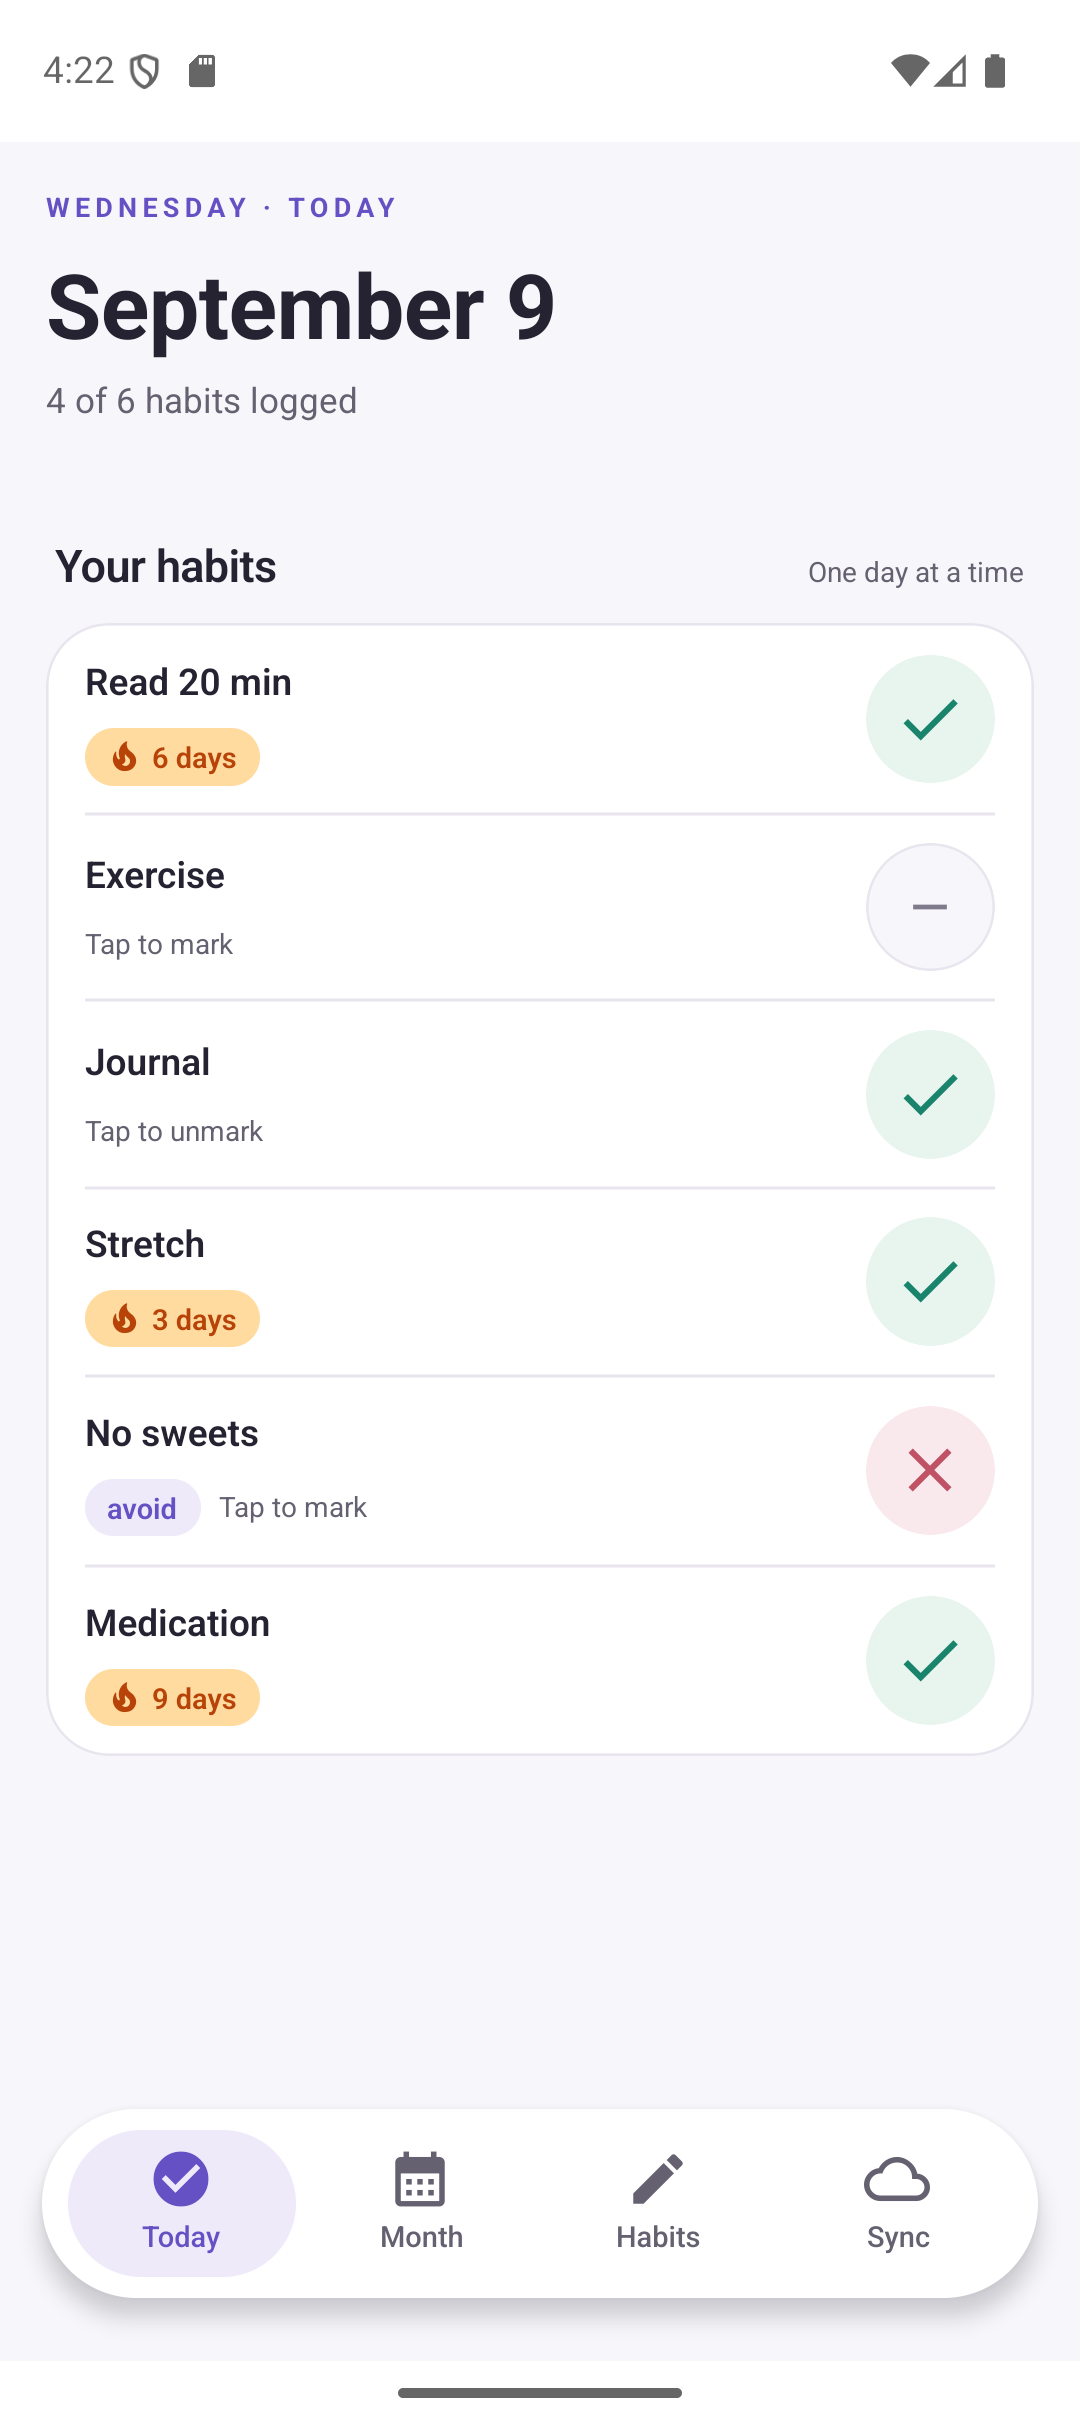
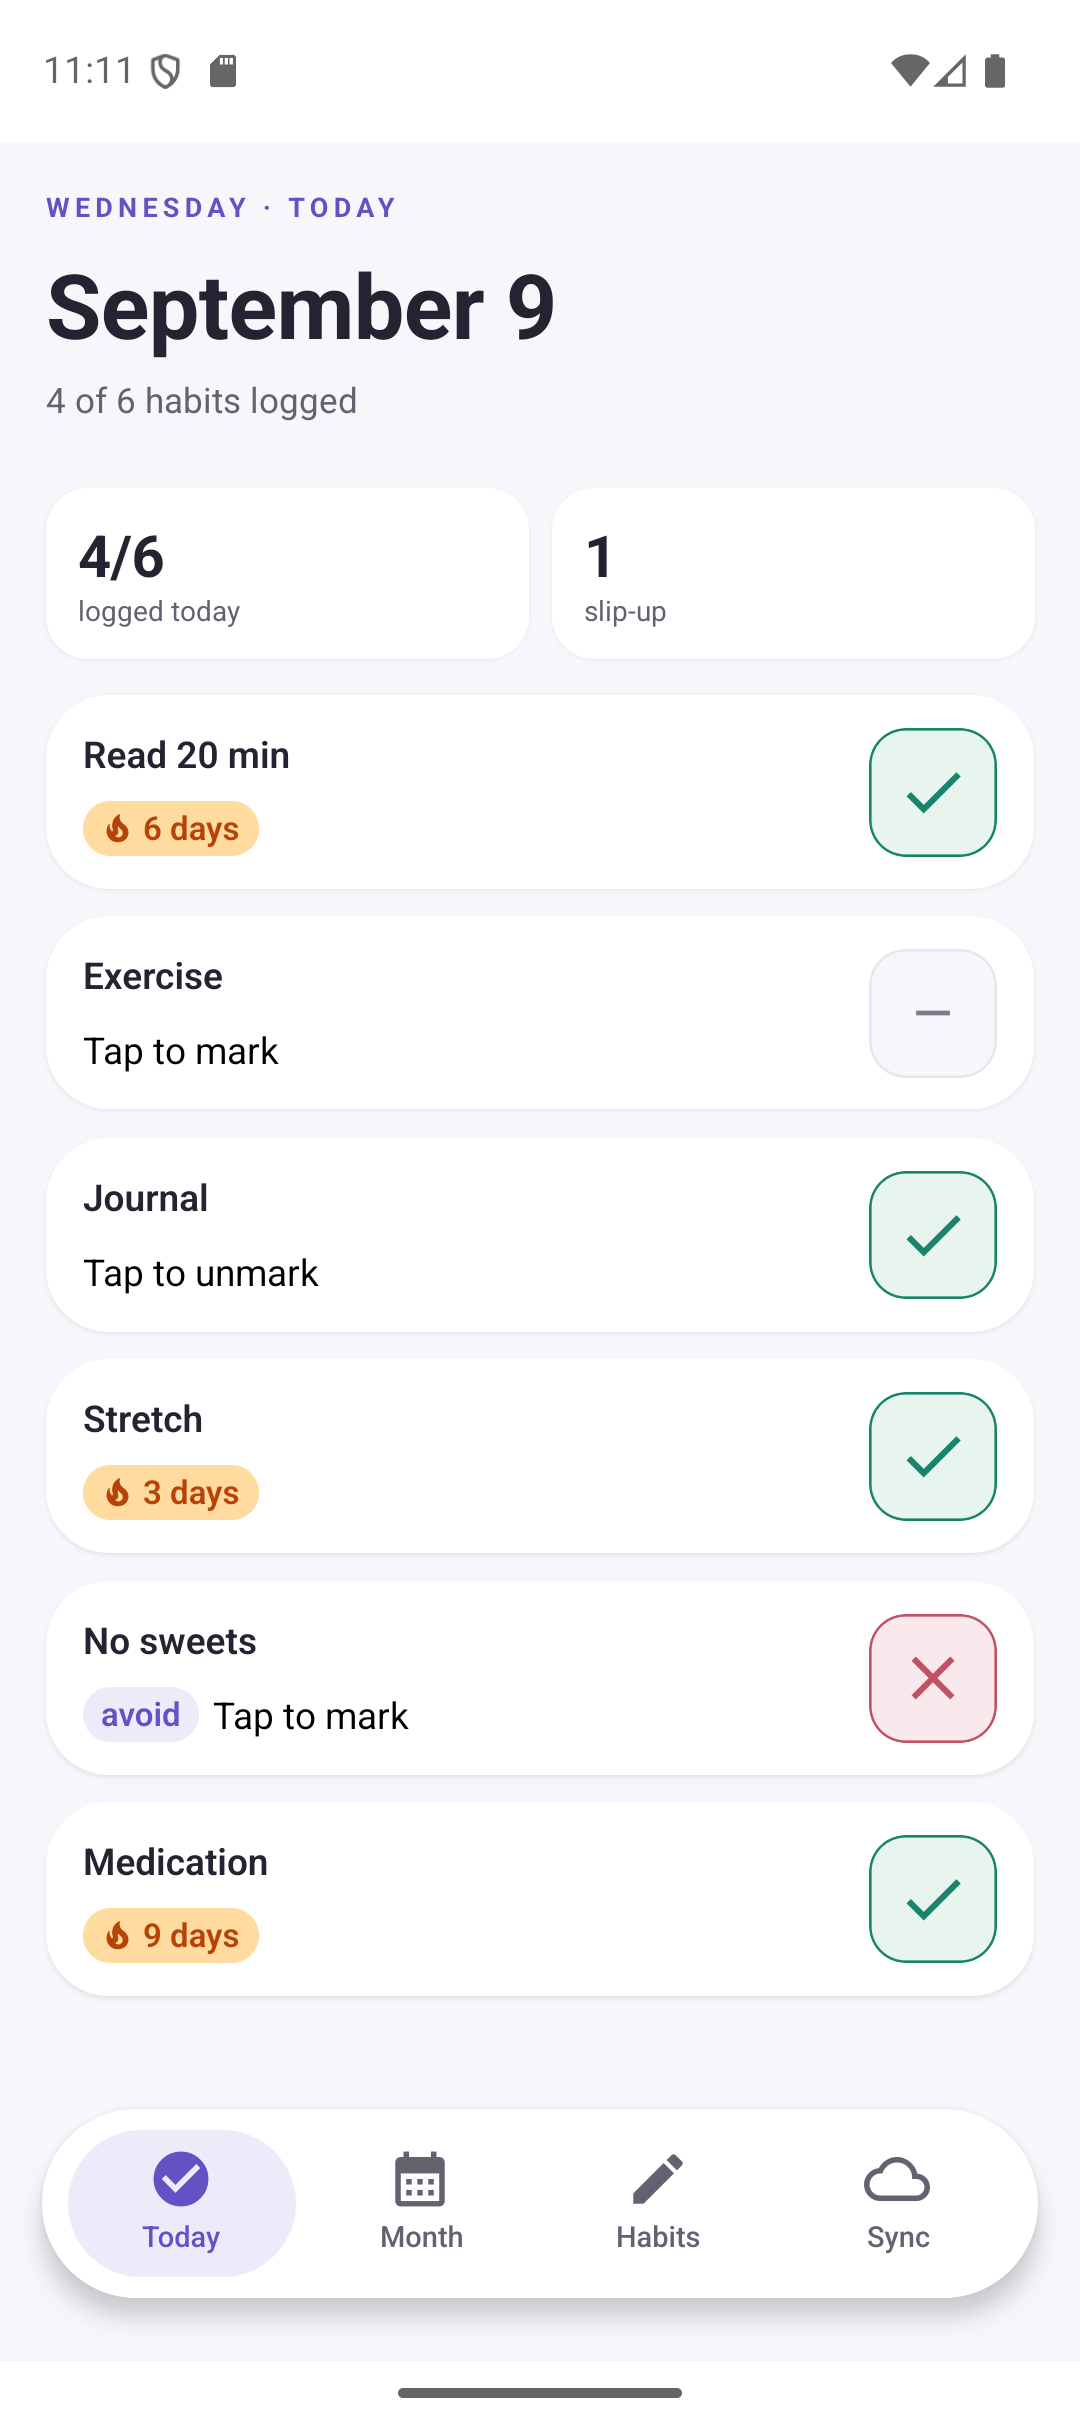
Restore Today cards while retaining updated header spacing
Restore the compact day summary and individual habit cards with rounded-square mark controls. Refresh the Today screenshot and capture readiness checks.

diff --git a/apps/mobile/src/app/index.tsx b/apps/mobile/src/app/index.tsx
@@ -1,10 +1,9 @@
 import { useMemo } from "react";
 
+import { DaySummary } from "@/components/today/DaySummary";
 import { HabitListItem } from "@/components/today/HabitListItem";
 import { AppScreen } from "@/components/ui/AppScreen";
-import { Card } from "@/components/ui/Card";
 import { Loading } from "@/components/ui/Loading";
-import { SectionHeader } from "@/components/ui/SectionHeader";
 import {
     currentMonthView,
     monthDayLabel,
@@ -20,7 +19,7 @@ import {
     useSync,
     useToggleEntry,
 } from "@/state/queries";
-import { RefreshControl, Text } from "react-native";
+import { RefreshControl } from "react-native";
 
 // Today: the primary daily surface — log each habit at a glance. Always pinned to the real
 // current month, whatever the Month tab is viewing.
@@ -44,6 +43,10 @@ export default function TodayScreen() {
     const logged = habits.filter((habit) =>
         isSuccess(habit.polarity, outcomeOf(habit.id)),
     ).length;
+    const slips = habits.filter(
+        (habit) =>
+            habit.polarity === "Negative" && outcomeOf(habit.id) === "Failure",
+    ).length;
 
     const sync = useSync();
 
@@ -63,29 +66,22 @@ export default function TodayScreen() {
                 <Loading />
             ) : (
                 <>
-                    <SectionHeader
-                        title="Your habits"
-                        detail="One day at a time"
+                    <DaySummary
+                        logged={logged}
+                        total={habits.length}
+                        slips={slips}
                     />
-                    <Card className={habits.length ? "p-0" : undefined}>
-                        {habits.length === 0 ? (
-                            <Text className="text-sm leading-6 text-ink-2">
-                                Add your first habit in Habits to get started.
-                            </Text>
-                        ) : null}
-                        {habits.map((habit, index) => (
-                            <HabitListItem
-                                key={habit.id}
-                                habit={habit}
-                                isLast={index === habits.length - 1}
-                                outcome={outcomeOf(habit.id)}
-                                streak={streaksQuery.data?.[habit.id]}
-                                onToggle={() =>
-                                    toggle(habit.id, today, habit.polarity)
-                                }
-                            />
-                        ))}
-                    </Card>
+                    {habits.map((habit) => (
+                        <HabitListItem
+                            key={habit.id}
+                            habit={habit}
+                            outcome={outcomeOf(habit.id)}
+                            streak={streaksQuery.data?.[habit.id]}
+                            onToggle={() =>
+                                toggle(habit.id, today, habit.polarity)
+                            }
+                        />
+                    ))}
                 </>
             )}
         </AppScreen>

diff --git a/apps/mobile/src/components/today/HabitListItem.tsx b/apps/mobile/src/components/today/HabitListItem.tsx
@@ -2,6 +2,7 @@ import { Text, View } from "react-native";
 
 import { HabitMark } from "@/components/HabitMark";
 import { StreakPill } from "@/components/today/StreakPill";
+import { Card } from "@/components/ui/Card";
 import { Pill } from "@/components/ui/Pill";
 import {
     displayStreak,
@@ -10,35 +11,22 @@ import {
     type HabitStreak,
 } from "@/domain/marks";
 import type { Habit, Outcome } from "@/domain/types";
-import { cn } from "@/lib/cn";
 
 interface Props {
     habit: Habit;
     outcome: Outcome | undefined;
     streak: HabitStreak | undefined;
     onToggle?: () => void;
-    isLast?: boolean;
 }
 
-export function HabitListItem({
-    habit,
-    outcome,
-    streak,
-    onToggle,
-    isLast,
-}: Props) {
+export function HabitListItem({ habit, outcome, streak, onToggle }: Props) {
     const view = markView(habit.polarity, outcome);
     const success = isSuccess(habit.polarity, outcome);
 
     const displayed = displayStreak(streak);
 
     return (
-        <View
-            className={cn(
-                "mx-4 flex-row items-center gap-4 py-3",
-                !isLast && "border-b border-line",
-            )}
-        >
+        <Card className="mb-3 flex-row items-center gap-3.5 border-0 py-3.5 shadow-sm">
             <View className="flex-1 gap-1">
                 <Text
                     numberOfLines={1}
@@ -46,19 +34,23 @@ export function HabitListItem({
                 >
                     {habit.name}
                 </Text>
-                <View className="mt-1 flex-row items-center gap-2">
-                    {habit.polarity === "Negative" && <Pill label="avoid" />}
+                <View className="mt-1 h-6 flex-row items-center gap-1.5">
+                    {habit.polarity === "Negative" && (
+                        <Pill
+                            label="avoid"
+                            className="px-2 py-0.5"
+                            labelClassName="text-sm"
+                        />
+                    )}
 
                     {displayed > 1 ? (
                         <StreakPill streak={displayed} success={success} />
                     ) : (
-                        <Text className="flex-1 text-xs leading-5 text-ink-2">
-                            {success ? "Tap to unmark" : "Tap to mark"}
-                        </Text>
+                        <Text>Tap to {success ? "unmark" : "mark"}</Text>
                     )}
                 </View>
             </View>
             <HabitMark view={view} size="lg" onPress={onToggle} />
-        </View>
+        </Card>
     );
 }

diff --git a/apps/mobile/src/components/HabitMark.tsx b/apps/mobile/src/components/HabitMark.tsx
@@ -87,7 +87,7 @@ function PlainMark({ view, onPress, disabled }: Props) {
 const markClassName = (view: MarkView, small: boolean, interactive: boolean) =>
     cn(
         "items-center justify-center",
-        small ? "h-10 w-10 rounded-lg" : "h-14 w-14 rounded-full border",
+        small ? "h-10 w-10 rounded-lg" : "h-14 w-14 rounded-2xl border",
         small ? SM_CONTAINER[view.kind] : CONTAINER[view.kind],
         !small && view.muted && "opacity-40",
         interactive && "active:opacity-60",
@@ -111,9 +111,9 @@ const POP_TIMING_OUT = { duration: 60 };
 // Container + glyph colors per state. `lg` (Today) is a bordered tile; `sm`
 // (month grid) is a compact filled chip.
 const CONTAINER: Record<MarkKind, string> = {
-    done: "bg-done-soft border-done-soft",
-    missed: "bg-slip-soft border-slip-soft",
-    slip: "bg-slip-soft border-slip-soft",
+    done: "bg-done-soft border-done",
+    missed: "bg-slip-soft border-slip",
+    slip: "bg-slip-soft border-slip",
     clean: "bg-surface border-done",
     empty: "bg-surface-2 border-line",
 };

diff --git a/apps/mobile/src/components/today/DaySummary.tsx b/apps/mobile/src/components/today/DaySummary.tsx
@@ -1,0 +1,21 @@
+import { View } from "react-native";
+
+import { StatCard } from "@/components/ui/StatCard";
+
+interface Props {
+    logged: number;
+    total: number;
+    slips: number;
+}
+
+export function DaySummary({ logged, total, slips }: Props) {
+    return (
+        <View className="mb-4 mt-1 flex-row gap-2.5">
+            <StatCard value={`${logged}/${total}`} label="logged today" />
+            <StatCard
+                value={slips}
+                label={slips === 1 ? "slip-up" : "slip-ups"}
+            />
+        </View>
+    );
+}

diff --git a/apps/mobile/src/components/today/StreakPill.tsx b/apps/mobile/src/components/today/StreakPill.tsx
@@ -32,8 +32,8 @@ export function StreakPill({ streak, success }: StreakPillProps) {
 
     return (
         <AnimatedPill
-            className="bg-streak-soft"
-            labelClassName="text-streak"
+            className="bg-streak-soft px-2 py-0.5"
+            labelClassName="text-sm text-streak"
             icon="local-fire-department"
             label={`${streak} days`}
             style={style}
